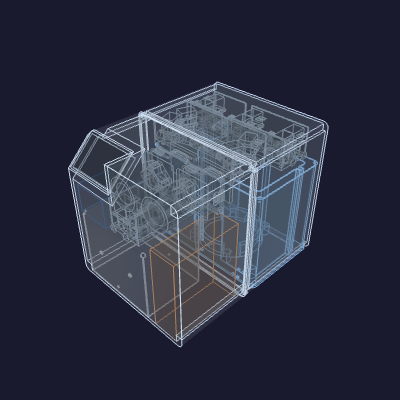
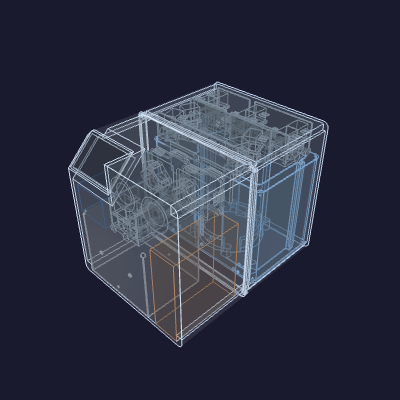
enclosure-assembly: lift the cold core clear of the back floor braces
The back half's new corner braces (floor braces ~13 mm tall) overlapped the
cold core's bottom-back corners. Lift the core FOAM_LIFT (14 mm) to clear them.
Its top then rises into the back-top tray band, so the three valve-manifold
trays move up just above the lifted core and nudge off the ±X corners to clear
the back half's top braces, staying under the ceiling.

Envelope unchanged; full overlap audit clear.

Changed region(s): [[0.36, 0.21, 0.81, 0.54], [0.42, 0.54, 0.78, 0.72], [0.39, 0.81, 0.42, 0.84]]

diff --git a/hardware/printed-parts/enclosure/enclosure-assembly/_contents.py b/hardware/printed-parts/enclosure/enclosure-assembly/_contents.py
@@ -59,6 +59,9 @@ LAYER_GAP = 5.0
 # (the boss chain: head counterbore + heat-set + cap). Front-bottom content set
 # against a side wall is inset this much, plus a gap, to clear them.
 SIDE_RIB_INSET = 14.0
+# The back half's floor braces stand ~13 mm tall in the rear ±X corners; the
+# cold core is lifted clear of them.
+FOAM_LIFT = 14.0
 
 
 # --- Colors ---------------------------------------------------------------
@@ -104,11 +107,14 @@ def build():
     foam = _load(FOAM_SHELL)
     fb = foam.BoundingBox()
     cold_w, cold_h = fb.xlen, fb.zlen          # ~283 wide, ~213 tall
-    top_z = cold_h + LAYER_GAP                  # top-layer floor
+    top_z = cold_h + LAYER_GAP                  # front top-layer floor
+    # The lifted cold core's top rises into the back-top tray band; the trays
+    # sit just above it (a smaller gap than LAYER_GAP, to stay under the ceiling).
+    back_top_z = FOAM_LIFT + cold_h + 2.0
 
-    # --- Zone A: cold core, back-bottom, on the floor. Seated behind the
-    # front block; its −Y service/dispense ports face forward (−Y).
-    placed["foam-shell"] = _at(foam, 0.0, FRONT_DEPTH, 0.0)
+    # --- Zone A: cold core, back, lifted clear of the back half's floor braces.
+    # Seated behind the front block; its −Y service/dispense ports face forward.
+    placed["foam-shell"] = _at(foam, 0.0, FRONT_DEPTH, FOAM_LIFT)
 
     # --- Zone D: refrigeration on the floor — compressor shroud front-left,
     # condenser/fan as a panel front-right (airflow axis across X). Both inset
@@ -136,9 +142,10 @@ def build():
     placed["pump-case-2"] = _at(pc2, 194.0, 0.0, top_z)
 
     # --- Zone B: three valve-manifold trays, laid FLAT (~63 mm tall) back-top
-    # above the cold core. Stand-in.
-    placed["source-select"] = _at(_load(TRAY_STEPS["source-select"]), 0.0, FRONT_DEPTH, top_z)
-    placed["nozzle-gate"]   = _at(_load(TRAY_STEPS["nozzle-gate"]),   0.0, FRONT_DEPTH + 98.0, top_z)
-    placed["bag-circuit"]   = _at(_load(TRAY_STEPS["bag-circuit"]), 105.0, FRONT_DEPTH + 98.0, top_z)
+    # just above the lifted cold core, nudged off the ±X corners to clear the
+    # back half's top braces. Stand-in.
+    placed["source-select"] = _at(_load(TRAY_STEPS["source-select"]), 10.0, FRONT_DEPTH, back_top_z)
+    placed["nozzle-gate"]   = _at(_load(TRAY_STEPS["nozzle-gate"]),   10.0, FRONT_DEPTH + 98.0, back_top_z)
+    placed["bag-circuit"]   = _at(_load(TRAY_STEPS["bag-circuit"]), 112.0, FRONT_DEPTH + 98.0, back_top_z)
 
     return {n: (s, COLORS[n]) for n, s in placed.items()}
